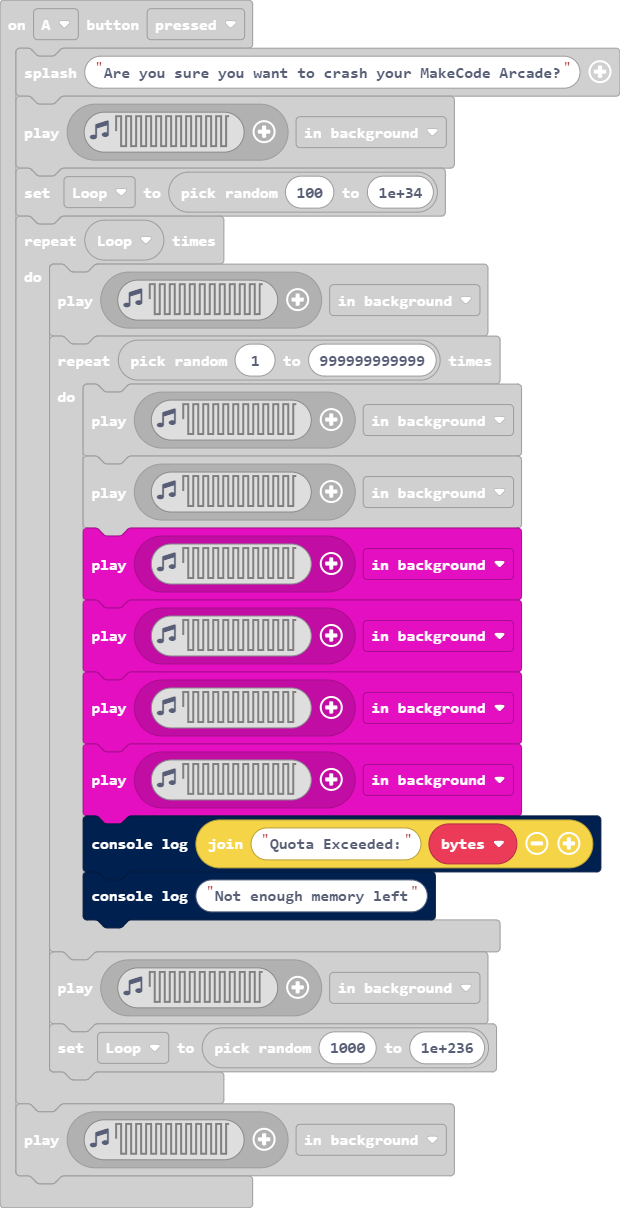
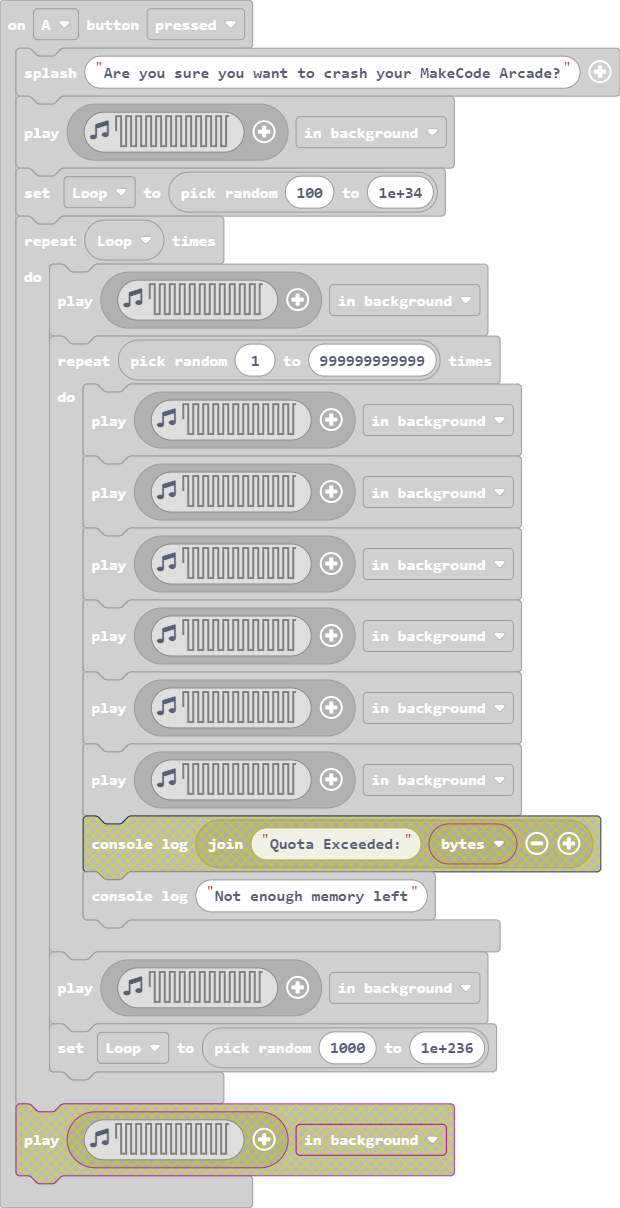
Removed some un-important features in hopes of speeding up the error tone.

Changed region(s): [[0.1226, 0.4288, 0.9806, 0.7657], [0.0, 0.8882, 0.7355, 0.9801]]

diff --git a/main.ts b/main.ts
@@ -14,13 +14,11 @@ controller.A.onEvent(ControllerButtonEvent.Pressed, function () {
             music.play(music.createSoundEffect(WaveShape.Square, 5000, 5000, 255, 255, 1000, SoundExpressionEffect.None, InterpolationCurve.Curve), music.PlaybackMode.InBackground)
             music.play(music.createSoundEffect(WaveShape.Square, 5000, 5000, 255, 255, 1000, SoundExpressionEffect.None, InterpolationCurve.Curve), music.PlaybackMode.InBackground)
             music.play(music.createSoundEffect(WaveShape.Square, 5000, 5000, 255, 255, 1000, SoundExpressionEffect.None, InterpolationCurve.Curve), music.PlaybackMode.InBackground)
-            console.log("Quota Exceeded:" + bytes)
             console.log("Not enough memory left")
         }
         music.play(music.createSoundEffect(WaveShape.Square, 5000, 5000, 255, 255, 1000, SoundExpressionEffect.None, InterpolationCurve.Curve), music.PlaybackMode.InBackground)
         Loop = randint(1000, 1e+236)
     }
-    music.play(music.createSoundEffect(WaveShape.Square, 5000, 5000, 255, 255, 1000, SoundExpressionEffect.None, InterpolationCurve.Curve), music.PlaybackMode.InBackground)
 })
 let bytes = 0
 let Loop = 0
